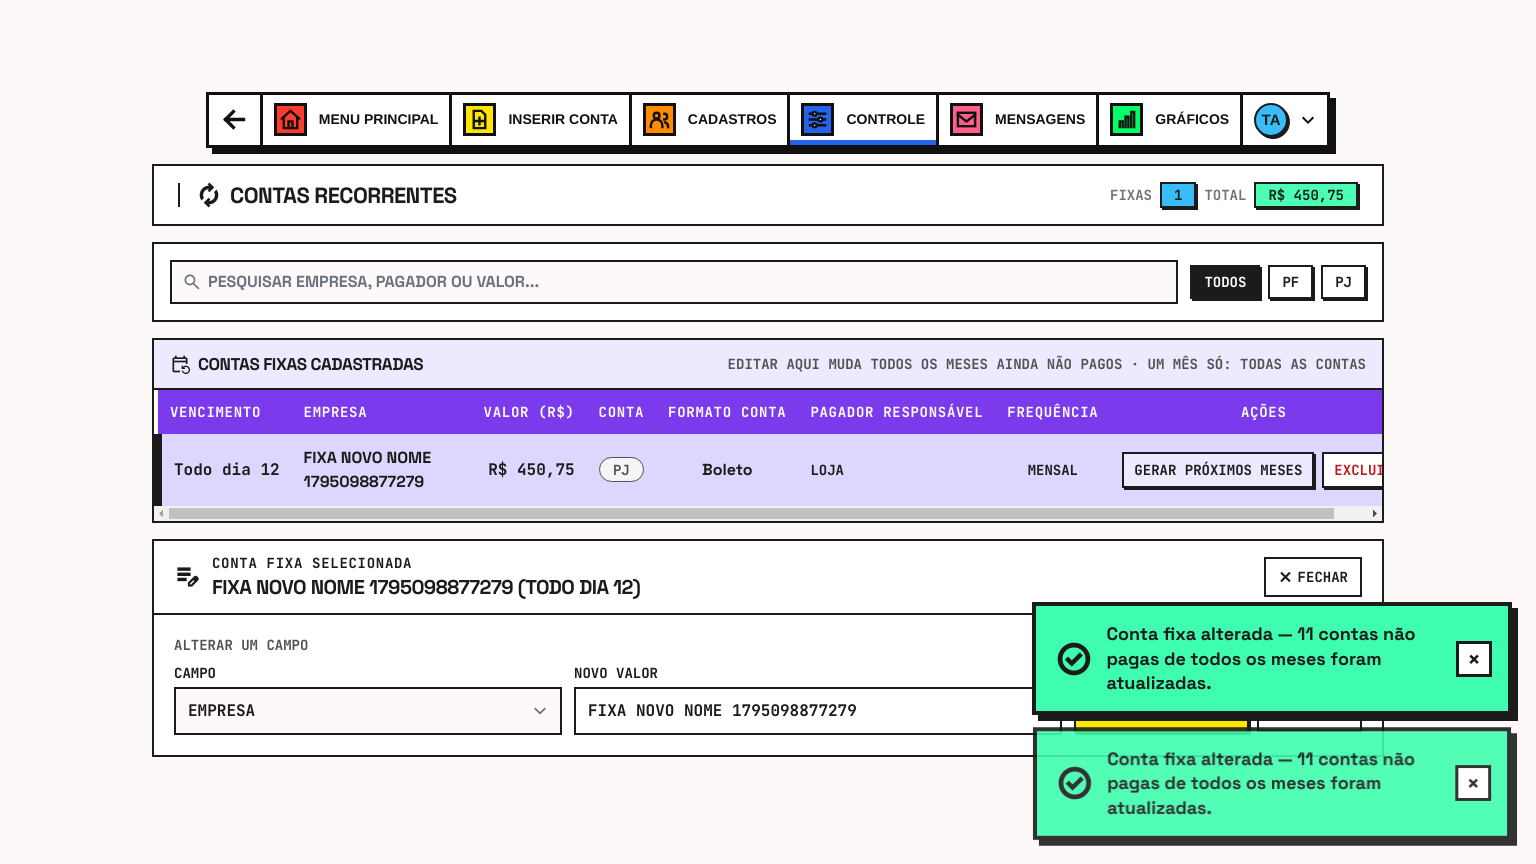
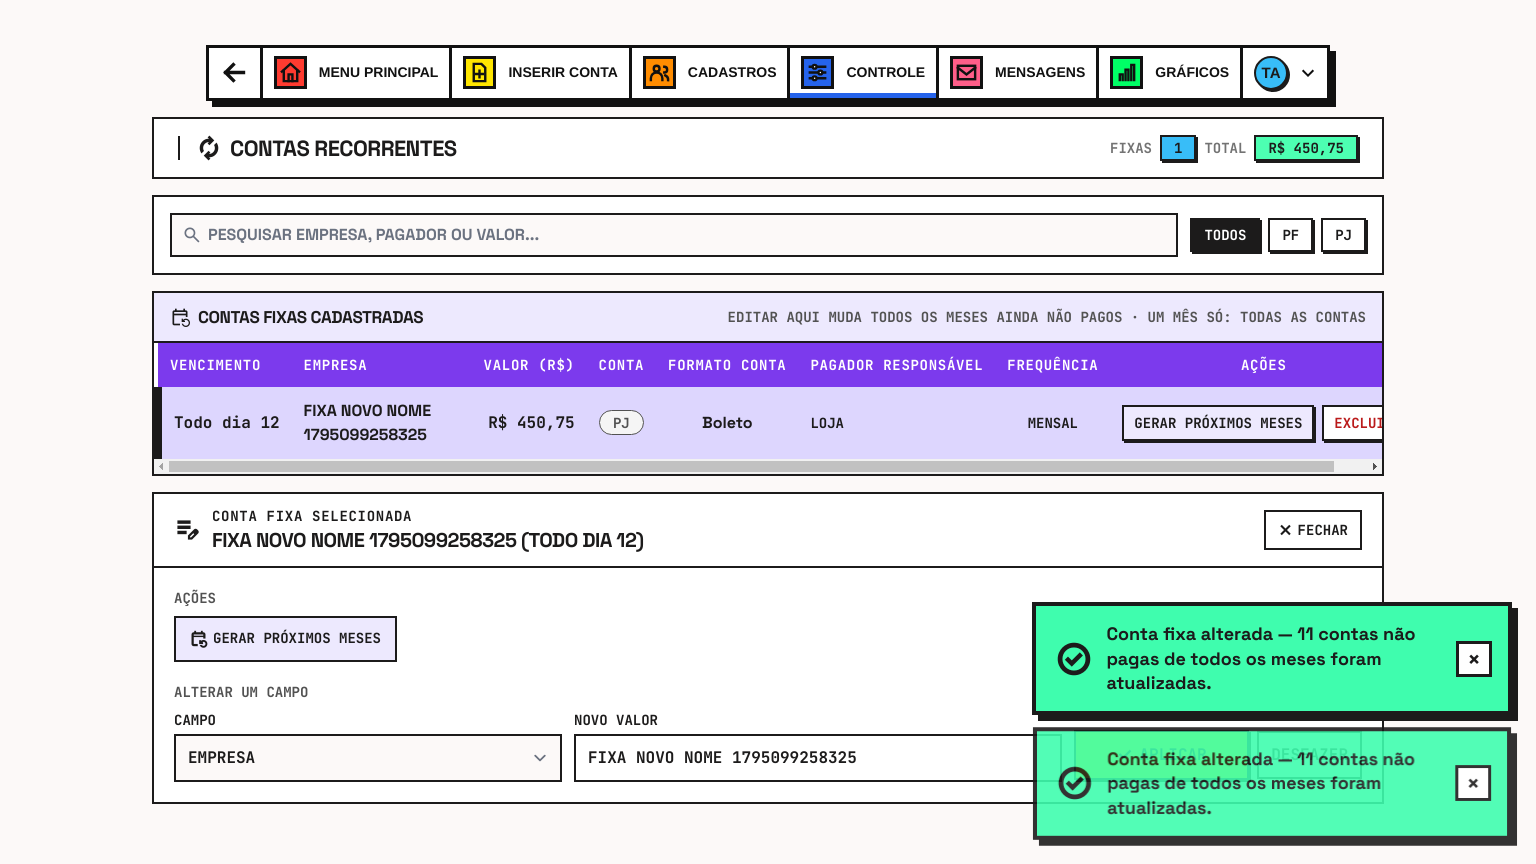
feat: EXCLUIR e GERAR PROXIMOS MESES tambem na area de edicao da conta fixa
Claude-Session: https://claude.ai/code/session_01NUq2fGscdhbEodN3JA1uYc

Changed region(s): [[0.0938, 0.0312, 0.9062, 0.9062], [0.6875, 0.8125, 0.8125, 0.9062]]

diff --git a/desktop/smoke.js b/desktop/smoke.js
@@ -1901,6 +1901,13 @@ async function executar() {
     && pagaDepois.nomeEmpresa === `FIXA EDITAR ${sufixoPg}`, JSON.stringify(pagaDepois));
   await capturar("recorrentes-uma-tabela-1536x864.png");
   await apiPag("DELETE", `/api/contas/${pagaRec.id}/pagamento`);
+  // EXCLUIR tambem na area de edicao (nao so na linha)
+  teste("Recorrentes: área de edição tem as ações GERAR PRÓXIMOS MESES e EXCLUIR", await js(`(() => { const e = document.getElementById('btnDeleteAction'), g = document.getElementById('btnGerarAction');
+    return !!e && !!g && e.offsetParent !== null && g.offsetParent !== null && e.textContent.includes('EXCLUIR'); })()`));
+  await js("document.getElementById('btnDeleteAction').click()");
+  teste("Recorrentes: EXCLUIR da área de edição pede confirmação", await esperarPredicado("document.querySelector('[data-dialogo]')?.textContent.includes('EXCLUIR CONTA FIXA')", 3000));
+  await js("document.querySelector('[data-dialogo] [data-dialogo-acao=confirmar]').click()");
+  teste("Recorrentes: confirmou, a conta fixa some da tabela e a edição fecha", await esperarPredicado(`!${linhaRec} && document.getElementById('editorContainer').classList.contains('hidden')`, 6000));
   await apiPag("DELETE", `/api/recorrentes/${recEd.body.id}`);
   await apiPag("DELETE", `/api/contas/${pagaRec.id}`);
 

diff --git a/frontend/html/recorrentes-tabela.html b/frontend/html/recorrentes-tabela.html
@@ -75,6 +75,13 @@
 </div>
 <div class="p-4 sm:p-5 flex flex-col gap-5">
 <div class="flex flex-col gap-2">
+<span class="font-mono text-xs font-bold uppercase text-neutral-600">Ações</span>
+<div class="flex flex-wrap gap-2">
+<button class="btn-acao bg-[#ede9fe] hover:bg-[#ddd6fe] text-[#1c1b1b]" id="btnGerarAction" type="button"><span class="material-symbols-outlined text-base font-bold">event_repeat</span>GERAR PRÓXIMOS MESES</button>
+<button class="btn-acao bg-white hover:bg-[#ffdad6] text-[#ba1a1a] sm:ml-auto" id="btnDeleteAction" type="button"><span class="material-symbols-outlined text-base font-bold">delete</span>EXCLUIR</button>
+</div>
+</div>
+<div class="flex flex-col gap-2">
 <span class="font-mono text-xs font-bold uppercase text-neutral-600">Alterar um campo</span>
 <div class="grid grid-cols-1 md:grid-cols-12 gap-3 items-start" data-enter-envia="#btnApplyChange">
 <div class="md:col-span-4 flex flex-col gap-1">

diff --git a/frontend/ts/telas/recorrentes-tabela.ts b/frontend/ts/telas/recorrentes-tabela.ts
@@ -269,6 +269,15 @@ function iniciar(): void {
   });
   el("btnClearSelection").addEventListener("click", fecharEditor);
   el("btnApplyChange").addEventListener("click", () => void aplicarAlteracao());
+  // as mesmas acoes da linha, tambem na area de edicao (como nas outras tabelas)
+  el("btnGerarAction").addEventListener("click", () => {
+    const r = selecionada();
+    if (r) void gerar(r);
+  });
+  el("btnDeleteAction").addEventListener("click", () => {
+    const r = selecionada();
+    if (r) void excluirFixa(r);
+  });
   editor = criarEditorCampo([
     { valor: "valor", rotulo: "Valor (R$)", mascara: "moeda" },
     { valor: "dia", rotulo: "Dia do vencimento", mascara: "dia" },

diff --git a/docs/decisoes.md b/docs/decisoes.md
@@ -248,3 +248,6 @@ A ordem de autoridade das fontes é: **design** = Stitch (`docs/stitch/`), **req
 
 ## 2026-11-19 — Fim da lista pequena do Windows (datalist)
 - `caixa-sugestoes.ts`: todo `<input list>` vira sozinho a caixa de digitar ou escolher neobrutalista (classes `caixa-busca__*`, iguais às do Garantias): lista grande, filtra ao digitar, aceita texto livre, setas/Enter/Esc. Vale para CATEGORIA DA CONTA (Inserir Conta) e FORMA DE PAGAMENTO (pop-up do PAGO). Regra: não usar `<datalist>` nativo à vista.
+
+## 2026-11-19 — Contas recorrentes: ações também na área de edição
+- Como nas outras tabelas, a área que abre ao clicar na conta fixa tem "Ações": GERAR PRÓXIMOS MESES e EXCLUIR (mesmo pop-up de confirmação da linha).
